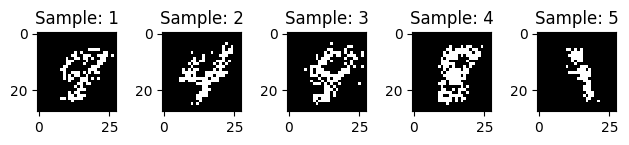
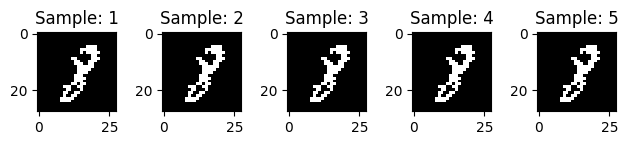
save

diff --git a/pa1/pa1.py b/pa1/pa1.py
@@ -105,10 +105,11 @@ def get_pixels_sampled_from_p_x_joint_z1_z2():
   return ans
 
 def prob_of_image(image):
+	pass
 
 def get_conditional_expectation(data):
 
-	#P(x|a) = P(x & a) / P(a)
+	pass
 
 
 
@@ -116,6 +117,11 @@ def q4():
   '''
   Plots the pixel variables sampled from the joint distribution as 28 x 28 images. Rest is TODO.
   '''
+
+  #mat = loadmat('q6.mat')
+  #val_data = mat['val_x']
+  #test_data = mat['test_x']
+
   plt.figure()
   for i in range(5):
       plt.subplot(1, 5, i+1)
@@ -162,10 +168,11 @@ def calculateProbability(image):
 				else:
 					prob *= (1.-ind_prob)
 			total += prob
-	return total
+	return math.log(total)
 
 def probCalculation(mask, prob):
-	return np.prod(np.select([mask, np.invert(mask)], [prob, 1-prob]))
+	#print (np.sum(np.log(np.select([mask, np.invert(mask)], [prob, 1.-prob]))) + 500.)
+	return (np.sum(np.log(np.select([mask, np.invert(mask)], [prob, 1.-prob]))) + 500.)
 
 def fastLogProb(image, probs, priors):
 
@@ -173,9 +180,10 @@ def fastLogProb(image, probs, priors):
 	total = 0.0
 
 	for i, prob in enumerate(probs):
-		total += (probCalculation(mask, prob) * priors[i])
+		total += math.exp(probCalculation(mask, prob) + math.log(priors[i]))
+		#print (total)
 
-	return total
+	return math.log(total) - 500.
 
 def q6():
   '''
@@ -199,12 +207,14 @@ def q6():
 			priors[counter] = get_p_z1(z1) * get_p_z2(z2)
 			counter = counter + 1
 
-  validation = np.empty([val_data.shape[0]])
-  #validation = np.empty([100])
+  #validation = np.empty([val_data.shape[0]])
+  validation = np.empty([100])
 
   for i, image in enumerate(val_data):
-  	validation[i] = math.log(fastLogProb(image, probs, priors))
-  	#print(fastLogProb(image, probs))
+  	if i > 99:
+  		break
+  	validation[i] = fastLogProb(image, probs, priors)
+  	#print(fastLogProb(image, probs, priors))
   	#print(calculateProbability(image))
   
   std = np.std(validation)
@@ -218,13 +228,14 @@ def q6():
   print "Starting test set"
 
   for i, image in enumerate(test_data):
-		prob = fastLogProb(image, probs)
+		prob = fastLogProb(image, probs, priors)
+		#print(prob)
 
-		if prob == 0:
-			corrupt_marginal_log_likelihood.append(LOW) # WHAT LOG EXP TRICK
-			continue
+		#if prob == 0:
+		#	corrupt_marginal_log_likelihood.append(LOW) # WHAT LOG EXP TRICK
+		#	continue
 
-		prob = math.log(prob)
+		#prob = math.log(prob)
 
 		if prob > low and prob < high:
 			real_marginal_log_likelihood.append(prob)
